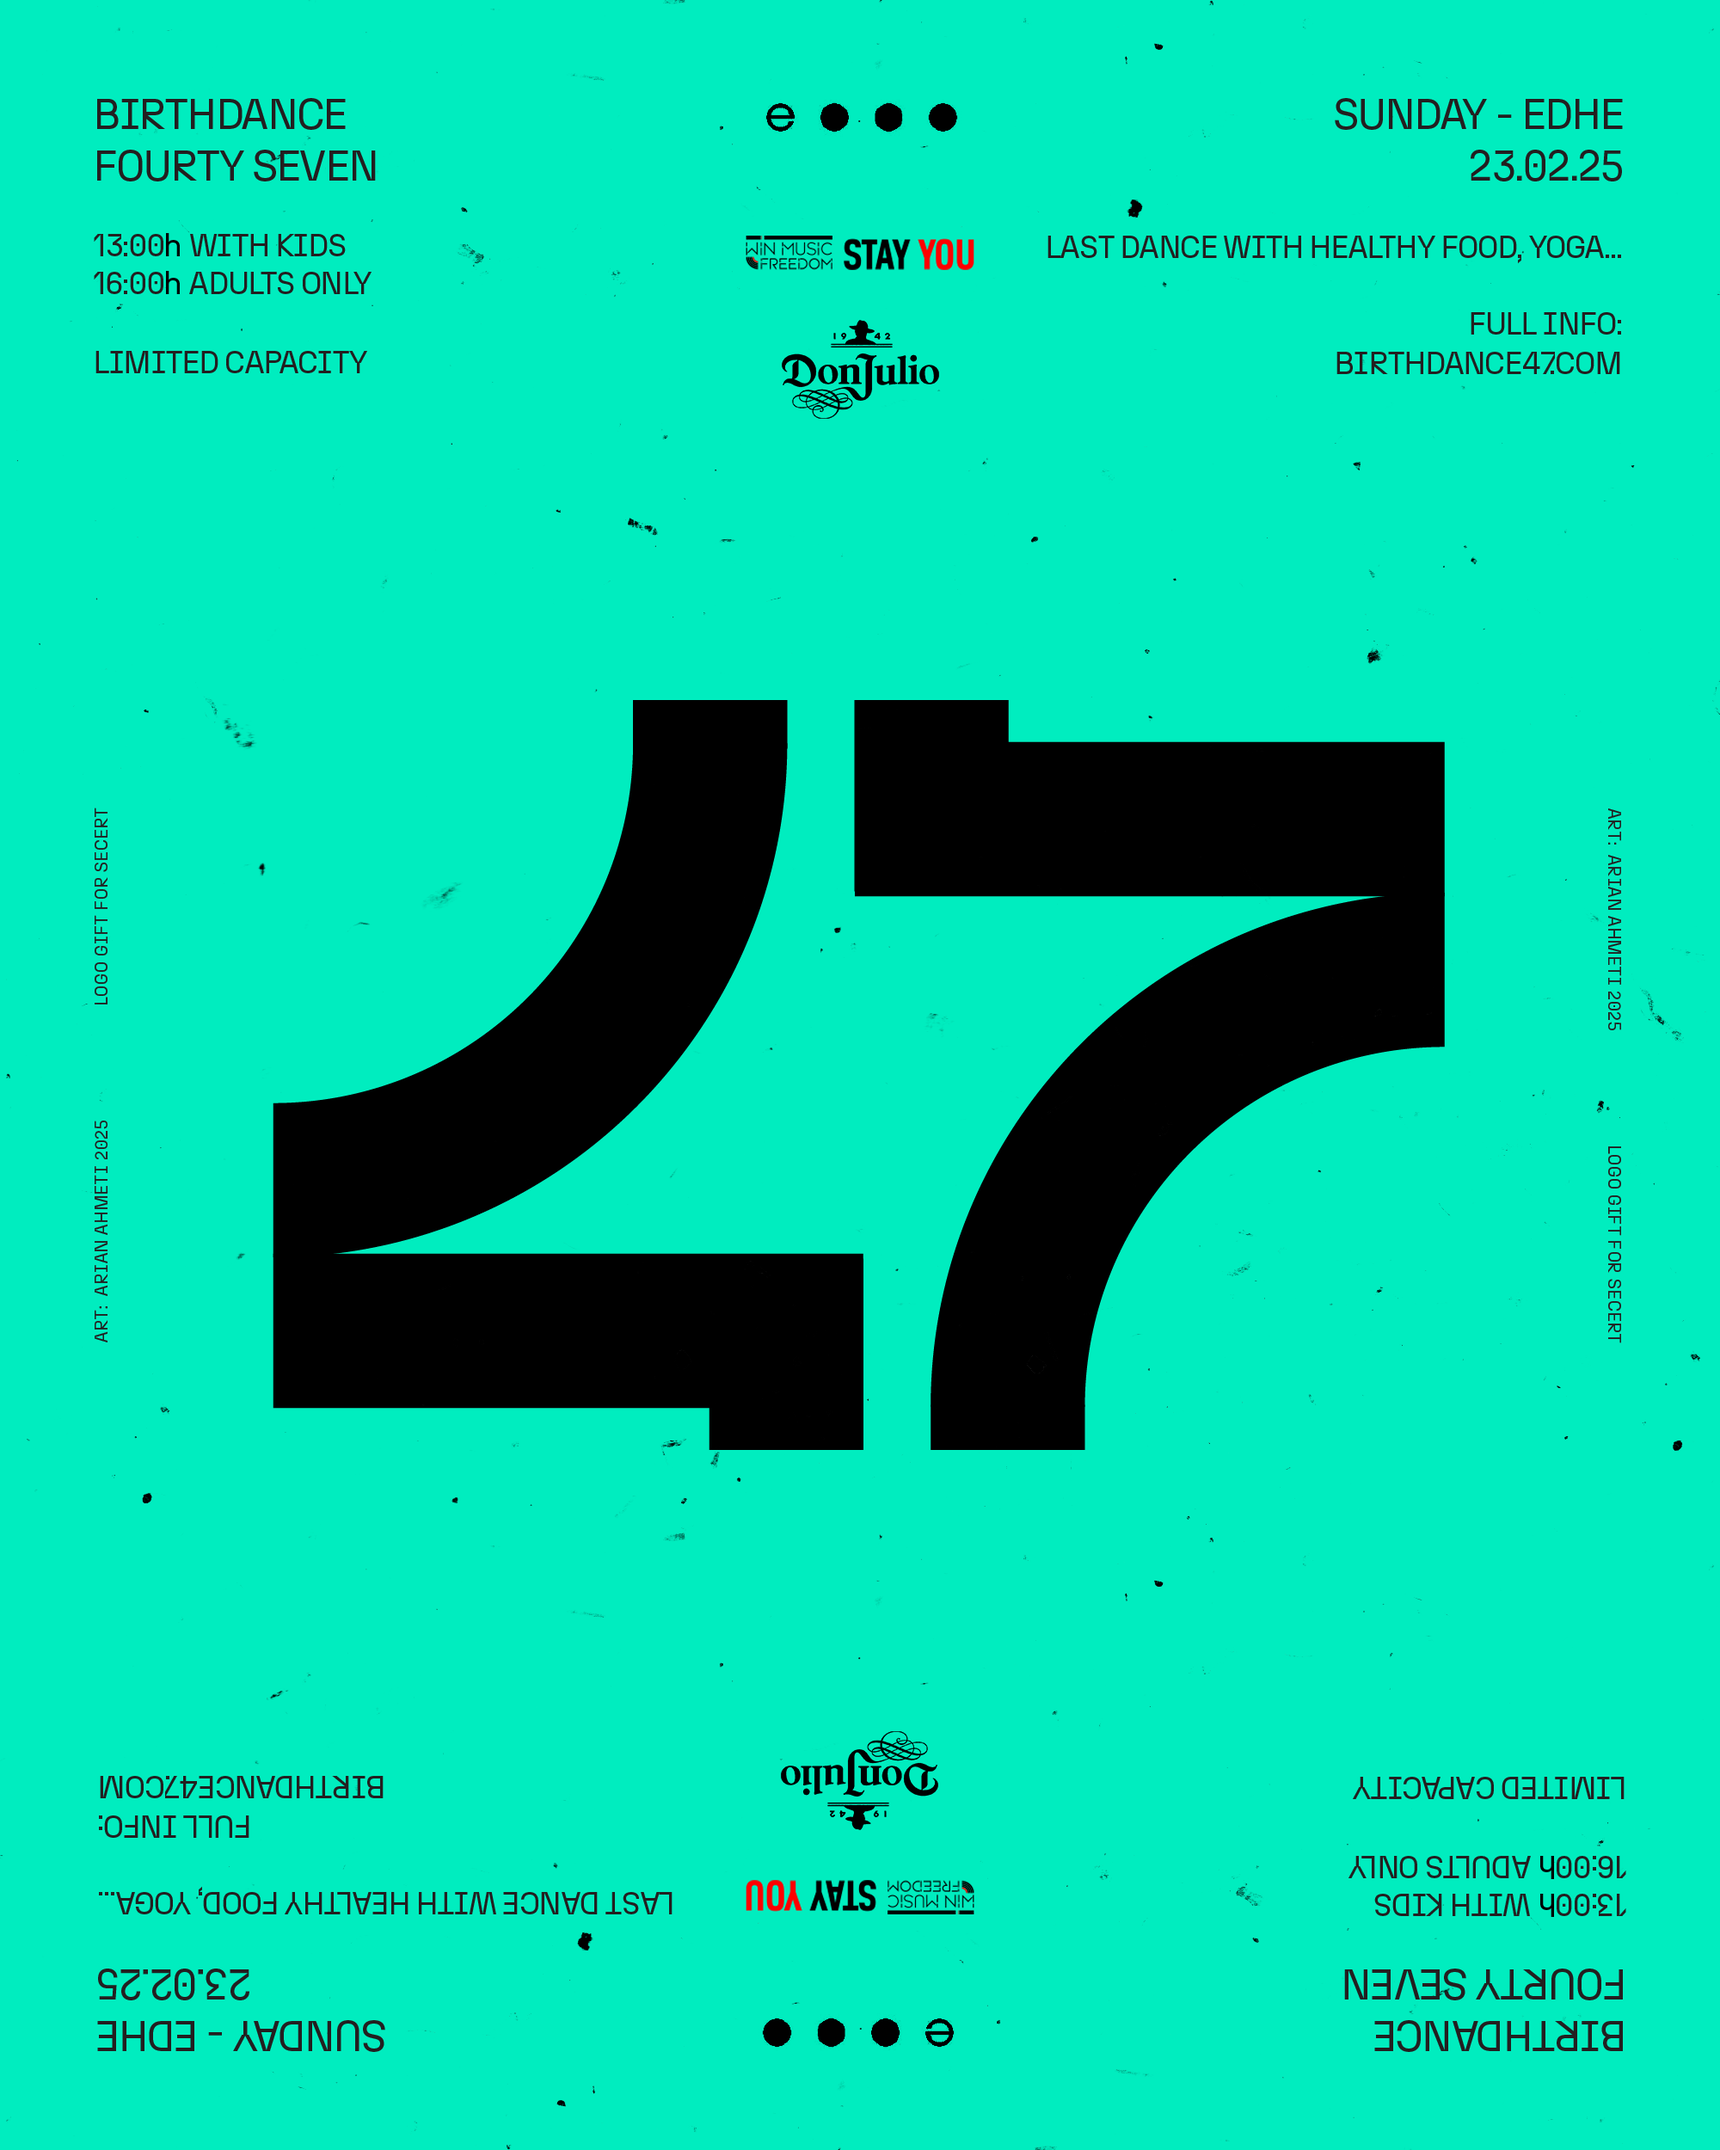
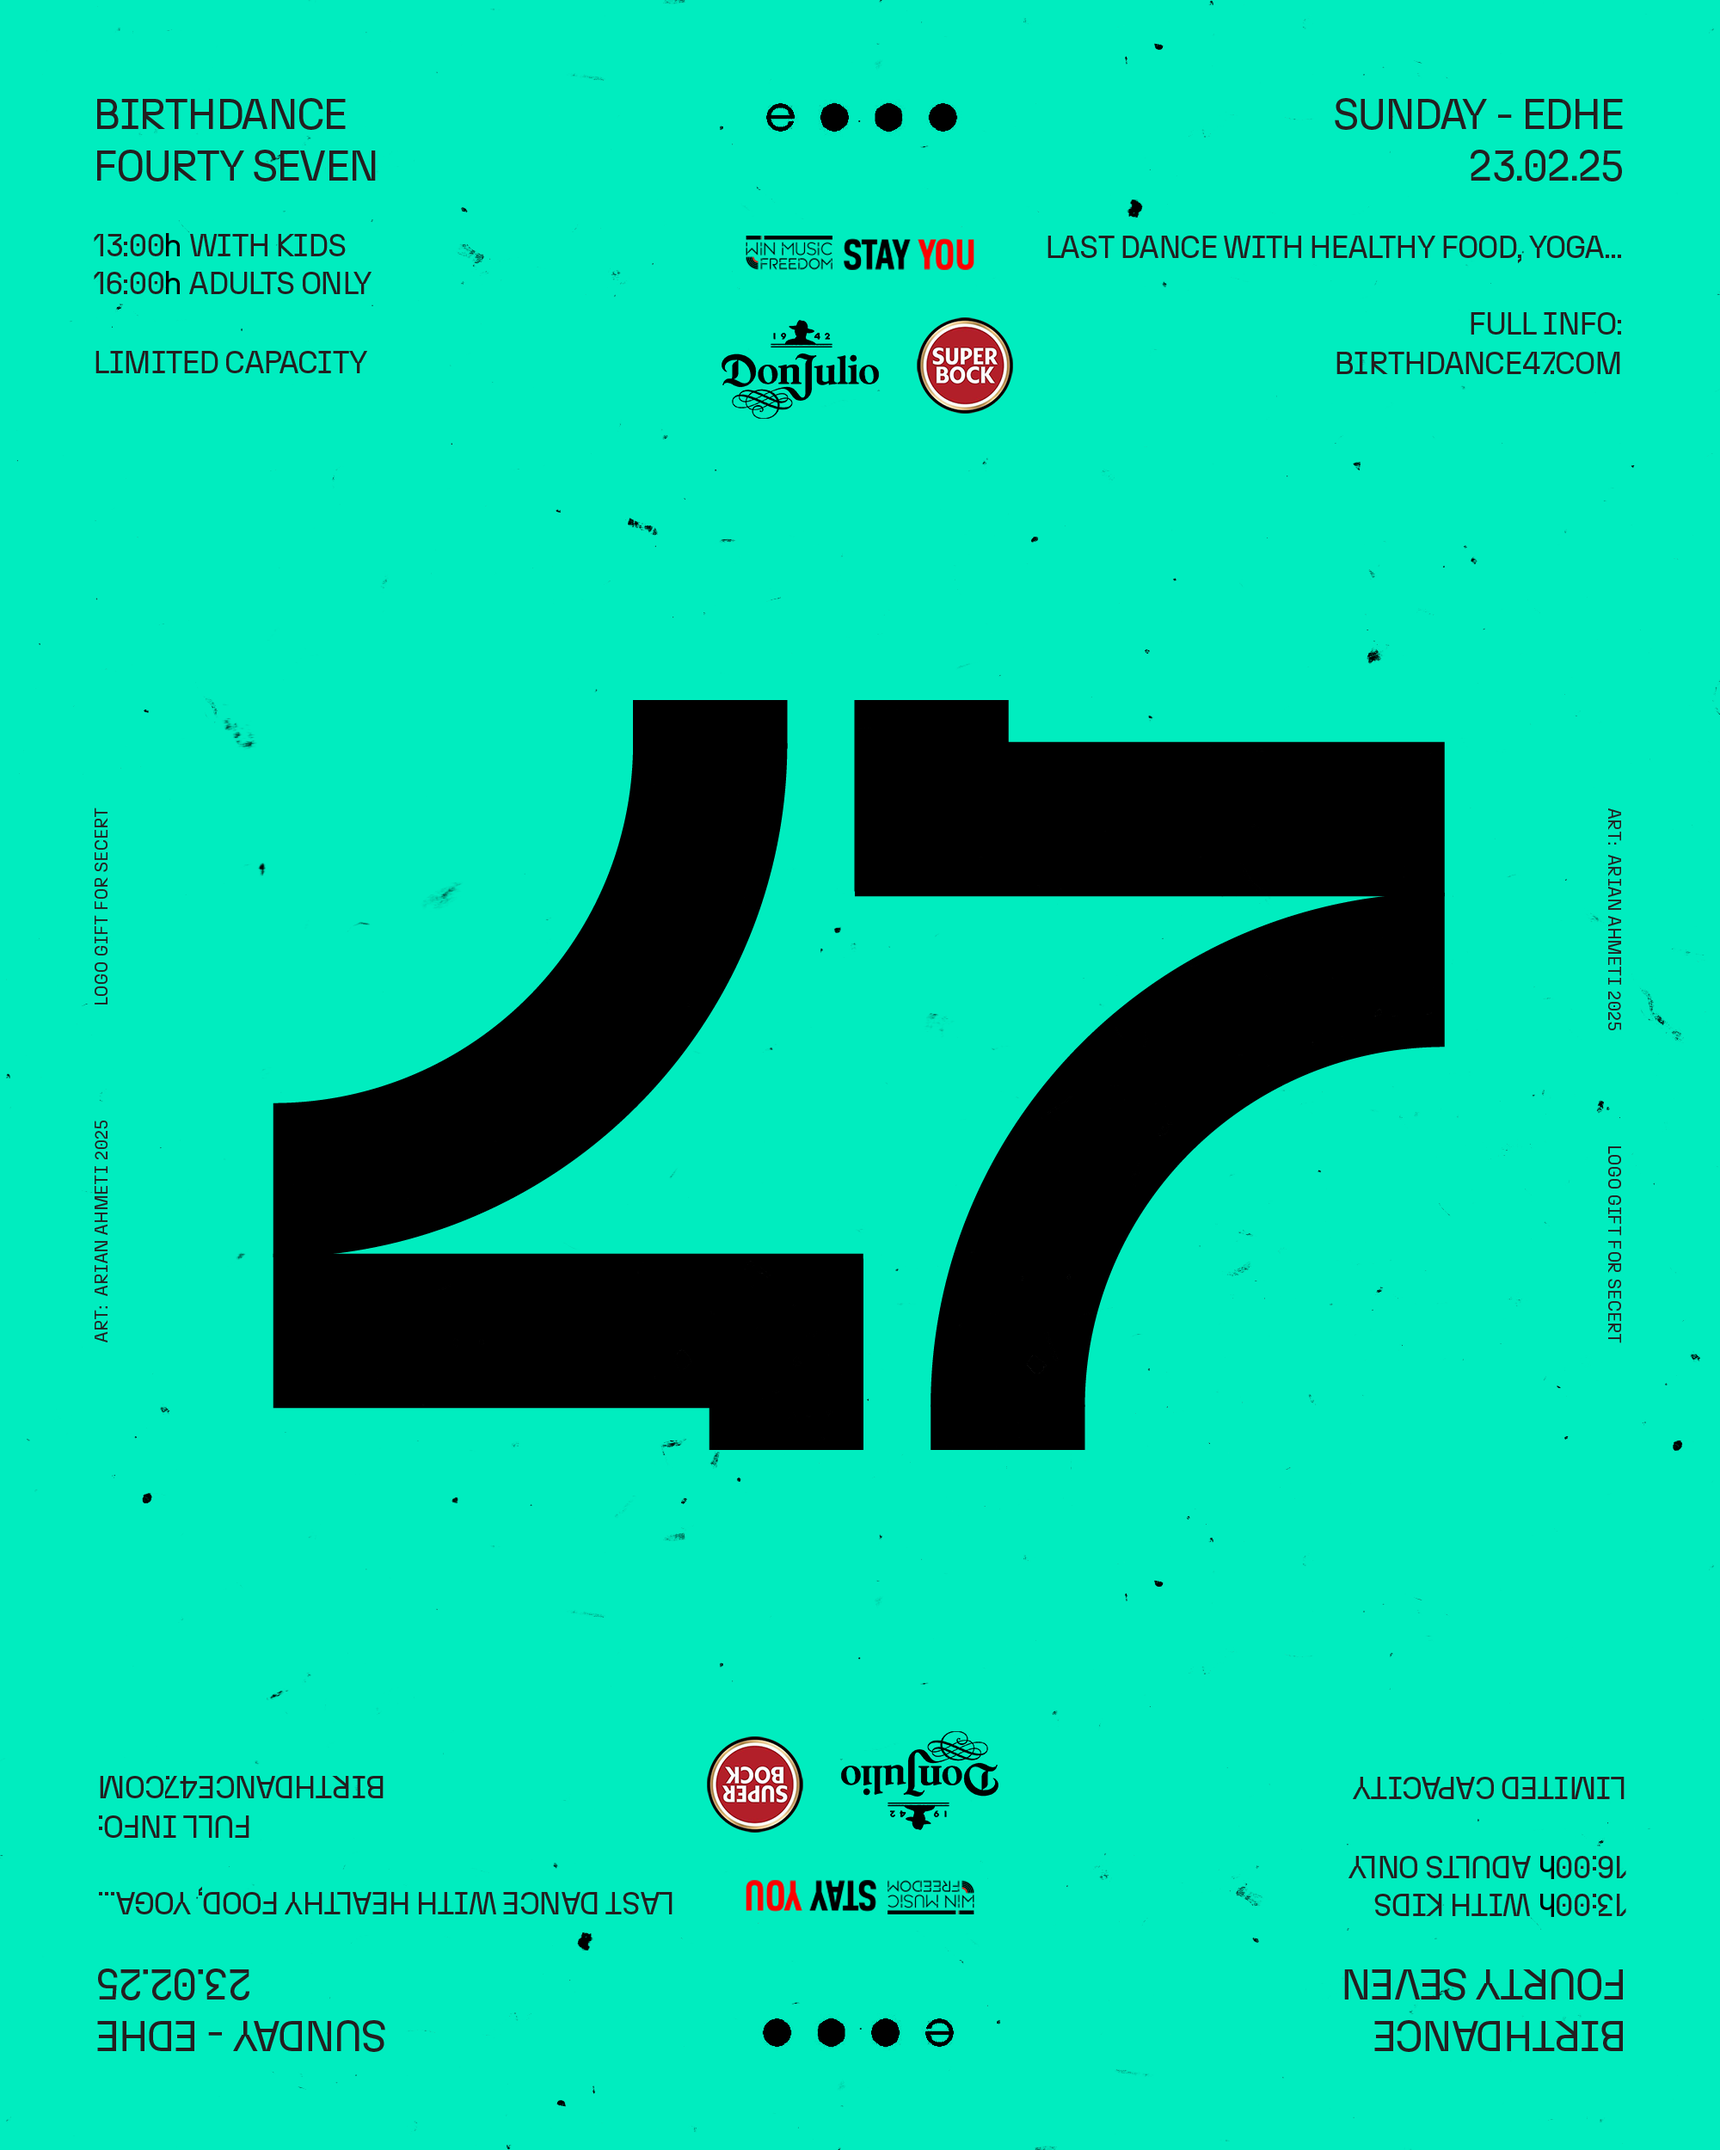
dada

Changed region(s): [[0.403, 0.8112, 0.589, 0.8736], [0.403, 0.1248, 0.589, 0.1872]]

diff --git a/src/components/days2025/Day5.jsx b/src/components/days2025/Day5.jsx
@@ -12,6 +12,8 @@ const Day5 = () => {
         { name: 'WinMusicFreedom', link: 'https://www.instagram.com/WinMusicFreedom' },
         { name: 'Red Bull', made: "Kosova", link: 'https://www.instagram.com/redbullkosova/' },
         { name: 'Gekos Group ', made: "Drinks", link: 'https://www.instagram.com/gekosgroup/' },
+        { name: 'Super Bock ', made: "Kosova", link: 'https://www.instagram.com/superbock.kosova/' },
+
         // { name: 'Waiting4you', made: "", link: '' },
     ];
 
